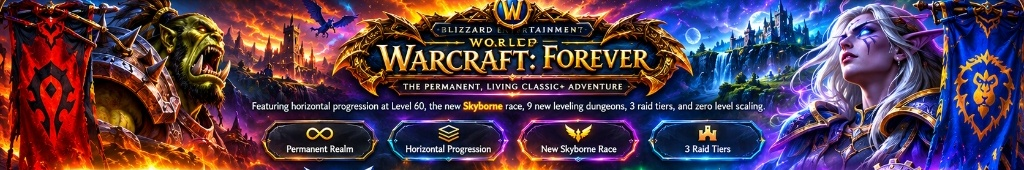
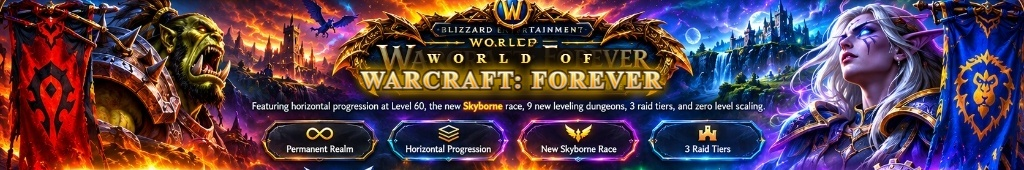
fix(ui): expand widescreen container to 1760px and restore authentic 'WORLD OF WARCRAFT: FOREVER' 3D crest typography

Changed region(s): [[0.3438, 0.2647, 0.6562, 0.5882]]

diff --git a/website/css/styles.css b/website/css/styles.css
@@ -146,11 +146,12 @@ h1, h2, h3, h4, .font-heading {
   -webkit-text-fill-color: transparent;
 }
 
-/* App Container */
+/* App Container - Expanded Widescreen Gaming Portal */
 .app-container {
-  max-width: 1400px;
+  max-width: 1760px;
+  width: 96%;
   margin: 0 auto;
-  padding: 0 1.5rem 4rem;
+  padding: 0 1rem 4rem;
 }
 
 /* Top Live Status Bar */
@@ -6945,7 +6946,7 @@ input:checked + .toggle-slider:before {
 
 .hub-hero-banner-img {
   width: 100%;
-  max-width: 1360px;
+  max-width: 100%;
   height: auto;
   display: block;
   object-fit: cover;
